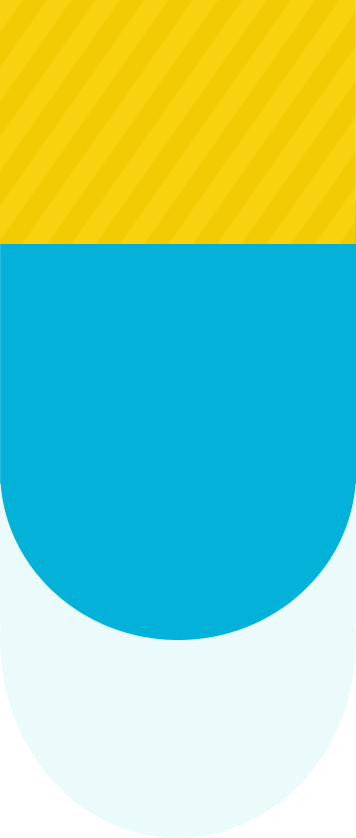
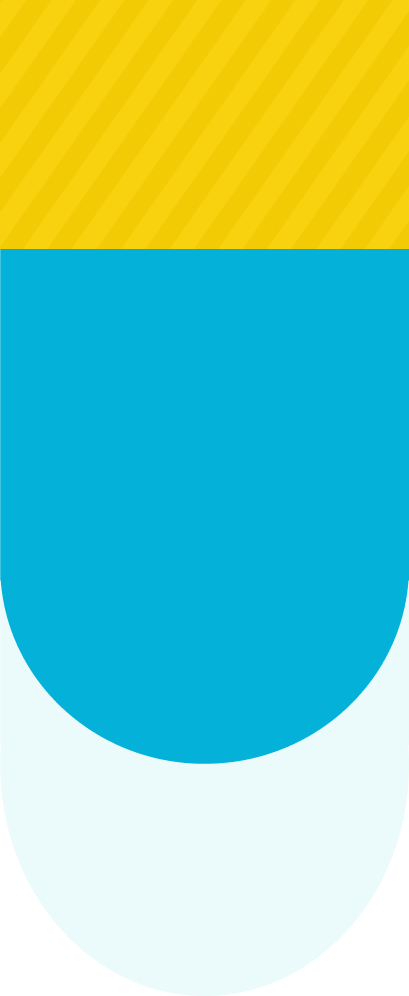
fixing layout 768px

diff --git a/style.css b/style.css
@@ -25,8 +25,21 @@ body > .container {
 
 .background-top-right {
   position: absolute;
+  width: 22rem;
   top: -1px;
   right: 50px;
+}
+
+@media screen and (max-width: 1024px) {
+  .background-top-right {
+    width: 17rem;
+  }
+}
+
+@media screen and (max-width: 768px) {
+  .background-top-right {
+    width: 15rem;
+  }
 }
 
 /* Nav */
@@ -158,7 +171,7 @@ header.container {
 }
 
 header.container .header-left {
-  width: 55%;
+  width: 40%;
   margin-top: 5rem;
 }
 
@@ -167,8 +180,9 @@ header.container .header-left .big-text img {
 }
 
 header.container .header-left .big-text img:nth-child(1) {
-  left: 10rem;
-  top: -3rem;
+  width: 100px;
+  left: 7rem;
+  top: -2rem;
 }
 header.container .header-left .big-text .text-with-stork {
   position: relative;
@@ -176,14 +190,15 @@ header.container .header-left .big-text .text-with-stork {
 }
 
 header.container .header-left .big-text .text-with-stork img {
+  width: 50px;
   position: absolute;
-  left: 5.5rem;
-  top: 0;
+  left: 3.8rem;
+  top: 0.2rem;
 }
 
 header.container .header-left .big-text {
   position: relative;
-  font-size: 6.5rem;
+  font-size: 4.5rem;
   font-weight: 800;
   text-transform: uppercase;
 }
@@ -199,11 +214,11 @@ header.container .header-left .big-text span:nth-child(3) {
 }
 
 header.container .header-left .small-text {
-  width: 70%;
-  font-size: 1.3rem;
+  width: 80%;
+  font-size: 1.1rem;
   color: #7b7b7b;
   margin-top: 1.5rem;
-  margin-bottom: 3rem;
+  margin-bottom: 1rem;
 }
 
 header.container .header-left a {
@@ -219,16 +234,98 @@ header.container .header-left a {
 }
 
 header.container .header-left img.arrow-drawing {
+  width: 150px;
   position: relative;
   right: -12rem;
 }
 
 header.container .header-right img {
-  width: 500px;
+  width: 400px;
   padding: 10px;
-  margin-right: 5rem;
+  margin-right: 8rem;
   border-radius: 50% / 35%;
   border-top: 2px solid var(--secondary);
   border-left: 2px solid var(--secondary);
   box-shadow: -250px 20px 200px hsl(50, 98%, 48%, 0.1);
+}
+
+@media screen and (max-width: 1024px) {
+  header.container .header-left .big-text img:nth-child(1) {
+    width: 4.5rem;
+    left: 4.5rem;
+    top: -1.5rem;
+  }
+
+  header.container .header-left .big-text .text-with-stork img {
+    width: 2.5rem;
+    left: 2.5rem;
+    top: 0;
+  }
+
+  header.container .header-left .big-text {
+    font-size: 3rem;
+  }
+
+  header.container .header-left .small-text {
+    width: 90%;
+    font-size: 0.8rem;
+    margin-bottom: 2rem;
+  }
+
+  header.container .header-left a {
+    font-size: 12px;
+    padding: 15px 20px;
+  }
+
+  header.container .header-left img.arrow-drawing {
+    width: 80px;
+    position: relative;
+    right: -7rem;
+  }
+
+  header.container .header-right img {
+    width: 300px;
+    margin-right: 5rem;
+  }
+}
+
+@media screen and (max-width: 768px) {
+  header.container .header-left .big-text img:nth-child(1) {
+    width: 3rem;
+    left: 3.1rem;
+    top: -1.1rem;
+  }
+
+  header.container .header-left .big-text .text-with-stork img {
+    width: 2rem;
+    left: 1.5rem;
+    top: -.5rem;
+  }
+
+  header.container .header-left .big-text {
+    font-size: 2rem;
+  }
+
+  header.container .header-left .small-text {
+    width: 90%;
+    font-size: 0.6rem;
+    margin-bottom: 2rem;
+    margin-top: 1rem;
+  }
+
+  header.container .header-left a {
+    font-size: 10px;
+    padding: 10px 20px;
+  }
+
+  header.container .header-left img.arrow-drawing {
+    width: 50px;
+    position: relative;
+    right: -2rem;
+  }
+
+  header.container .header-right img {
+    width: 250px;
+    margin-right: 1rem;
+  }
 }

diff --git a/index.html b/index.html
@@ -60,10 +60,10 @@
     <header class="container">
       <div class="header-left">
         <div class="big-text">
-          <img src="./images/ibis-bird.png" alt="ibis-bird" width="150" />
+          <img src="./images/ibis-bird.png" alt="ibis-bird" />
           <span>enjoy</span> <span>your</span> journey with
           <div class="text-with-stork">
-            <img src="./images/stork.png" alt="ibis-bird" width="80" />
+            <img src="./images/stork.png" alt="ibis-bird" />
             fun
           </div>
         </div>
@@ -77,7 +77,6 @@
             class="arrow-drawing"
             src="./images/arrow-drawing.png"
             alt="arrow-drawing"
-            width="150"
           />
         </div>
       </div>
